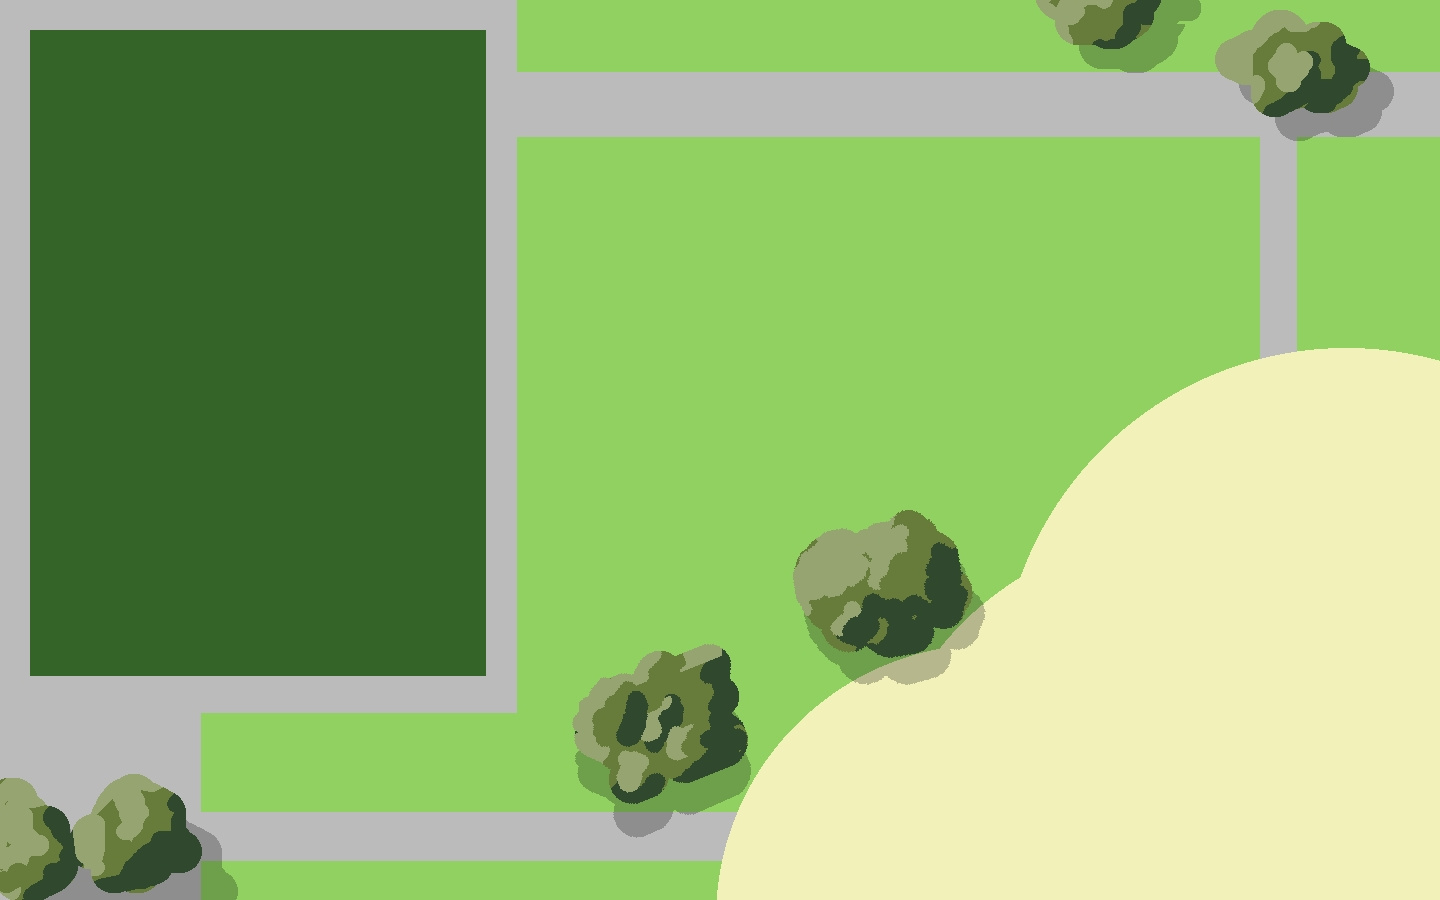
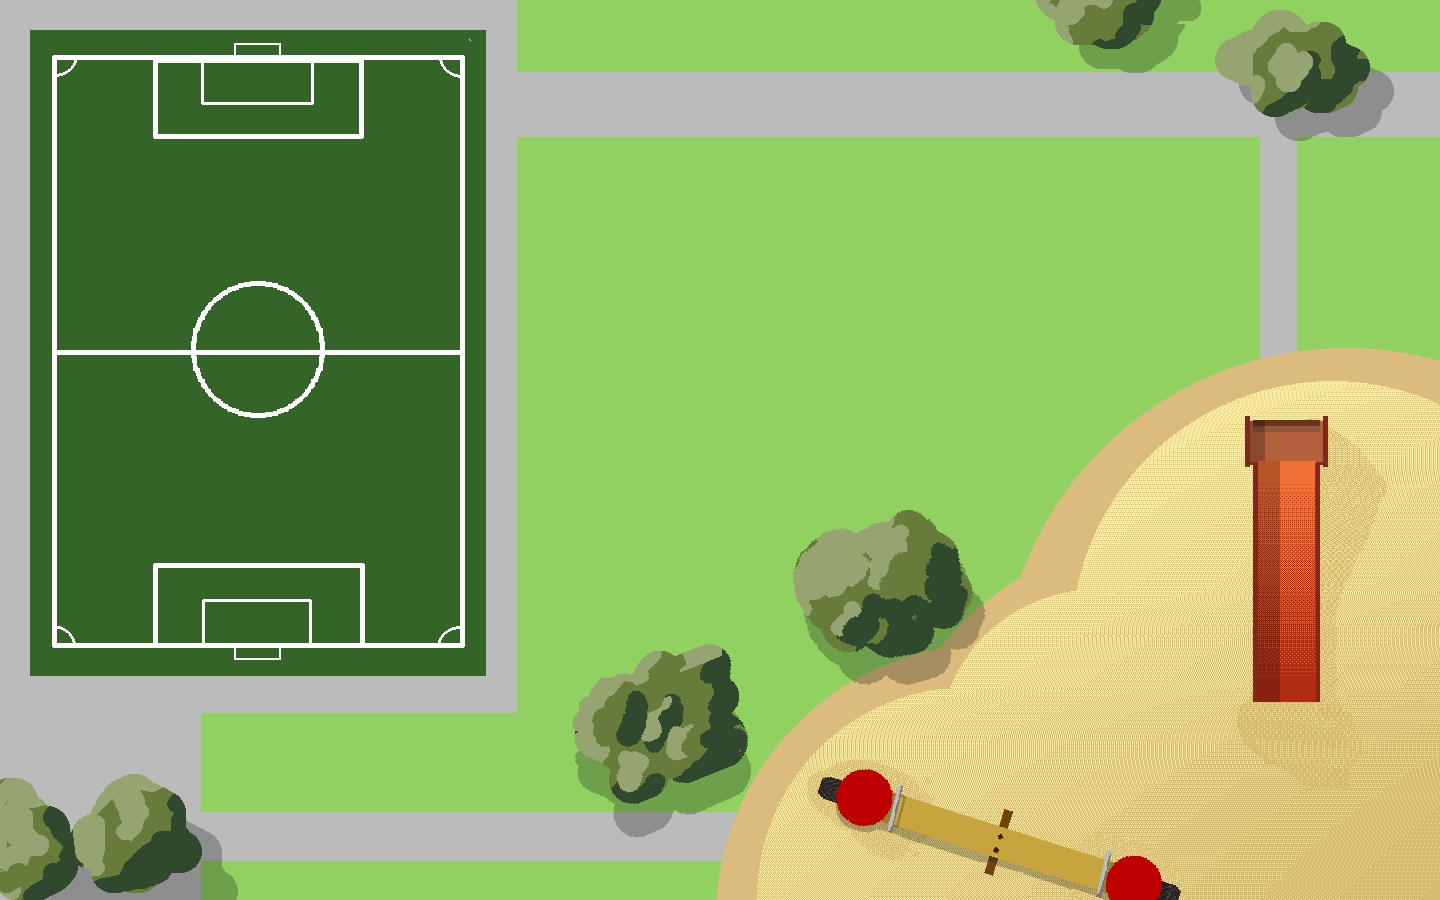
Level 3 fonts zijn toegevoegd en baller veranderingen

diff --git a/src/js/scenes/game_lvl3.js b/src/js/scenes/game_lvl3.js
@@ -17,7 +17,7 @@ import {
     Timer,
     randomInRange,
     Physics,
-    BaseAlign, TextAlign
+    BaseAlign, TextAlign, FontUnit
 } from "excalibur"
 import { Resources, ResourceLoader } from '../resources.js'
 import { player } from '../player.js'
@@ -27,6 +27,7 @@ import { Box } from "../box.js"
 import {MovableObject} from "../movableObject.js";
 import {Baller} from "../baller.js";
 import {Leaves} from "../leaves.js";
+import { Fonts } from "../fonts.js";
 
 export class Level3 extends Scene {
     game;
@@ -34,11 +35,13 @@ export class Level3 extends Scene {
     character;
     colliding = CollisionType.Fixed;
     yourScore = 0;
-    enemyScore = 4;
+    enemyScore = 0;
     leafArray = [];
     leafPoints = 0;
     timer;
     startBallin = false;
+    winScore = 5;
+    leafAmount = 15;
 
     constructor() {
 
@@ -53,7 +56,7 @@ export class Level3 extends Scene {
         this.footWall4 = new Wall(165, 975, 165, -445);
 
         this.goLevel4 = new MovableObject(1, Resources.Ending.toSprite(), CollisionType.Passive, 2600, -300)
-
+        this.gameFont = new Fonts();
 
     }
 
@@ -76,65 +79,30 @@ export class Level3 extends Scene {
 
         this.footWall3.on('collisionstart', (evt) => this.scored(evt));
         this.footWall1.on('collisionstart', (evt) => this.enemyScored(evt));
-        this.label = new Label({
+        this.playerLabel = new Label({
             text: `${this.yourScore}`,
-            pos: new Vector(200, 190),
-            font: new Font({
-                family: 'arial',
-                // style: FontStyle.Italic,
-                size: 40,
-                strokeColor: Color.Black,
-                lineWidth: 2,
-                bold: true,
-                color: Color.White,
-                baseAlign: BaseAlign.Top,
-                textAlign: TextAlign.Center
-            })
+            pos: new Vector(200, 100),
+            font: this.gameFont.font
         });
         this.enemyLabel = new Label({
             text: `${this.enemyScore}`,
-            pos: new Vector(200, 100),
-            font: new Font({
-                family: 'arial',
-                // style: FontStyle.Italic,
-                size: 40,
-                strokeColor: Color.Black,
-                lineWidth: 2,
-                bold: true,
-                color: Color.White,
-                baseAlign: BaseAlign.Top,
-                textAlign: TextAlign.Center
-            })
+            pos: new Vector(200, 190),
+            font: this.gameFont.font2
         });
         this.wonLabel = new Label({
             text: `You won noobs, follow the path to the end`,
-            pos: new Vector(-445, -400),
-            font: new Font({
-                family: 'arial',
-                // style: FontStyle.Italic,
-                size: 40,
-                strokeColor: Color.Black,
-                lineWidth: 2,
-                bold: true,
-                color: Color.White,
-                baseAlign: BaseAlign.Top,
-                textAlign: TextAlign.Center
-            })
+            pos: new Vector(-845, -300),
+            font: this.gameFont.font3
         });
         this.lostLabel = new Label({
             text: `You lost noobs, try to get to 5 points first!`,
-            pos: new Vector(-445, -400),
-            font: new Font({
-                family: 'arial',
-                // style: FontStyle.Italic,
-                size: 40,
-                strokeColor: Color.Black,
-                lineWidth: 2,
-                bold: true,
-                color: Color.White,
-                baseAlign: BaseAlign.Top,
-                textAlign: TextAlign.Center
-            })
+            pos: new Vector(-845, -300),
+            font: this.gameFont.font3
+        });
+        this.explainLabel = new Label({
+            text: `Find all leaves and start ballin!`,
+            pos: new Vector(2700, 900),
+            font: this.gameFont.font3
         });
         this.timer = new Timer({
             fcn: () => this.spawnLeaves(),
@@ -151,8 +119,8 @@ export class Level3 extends Scene {
         console.log(ctx.previousScene);
         this.player1ID = ctx.previousScene.player1ID;
         this.player2ID = ctx.previousScene.player2ID;
-        this.player = new player(this, 1, 300, -300, this.player1ID);
-        this.player2 = new player(this,2, 5, 100, this.player2ID);
+        this.player = new player(this, 1, 2500, 1000, this.player1ID);
+        this.player2 = new player(this,2, 2500, 1200, this.player2ID);
         //starts game
         this.startGame();
     }
@@ -163,7 +131,7 @@ export class Level3 extends Scene {
         this.game.currentScene.camera.zoom = 0.9;
         this.add(this.player);
         this.add(this.player2);
-
+        this.add(this.explainLabel);
         this.game.currentScene.add(this.timer);
         this.timer.start();
 
@@ -176,7 +144,7 @@ export class Level3 extends Scene {
         this.leaves = new Leaves(this);
         this.add(this.leaves);
         this.leafArray.push(this.leaves);
-        if (this.leafArray.length === 10) {
+        if (this.leafArray.length === this.leafAmount) {
             this.removeTimer(this.timer);
         }
     }
@@ -187,13 +155,14 @@ export class Level3 extends Scene {
             this.baller.actions.clearActions();
             this.baller2.actions.clearActions();
             this.yourScore += 1;
+
             this.player.pos = new Vector(-245, -200);
             this.player2.pos = new Vector(-545, -200);
             this.ball.pos = new Vector(-445, 400);
             this.baller.pos = new Vector(-245, 800);
             this.baller2.pos = new Vector(-545, 800);
 
-            if (this.yourScore === 5) {
+            if (this.yourScore === this.winScore) {
                 this.yourScore = 0;
                 this.enemyScore = 0;
                 this.baller.kill();
@@ -216,12 +185,13 @@ export class Level3 extends Scene {
             this.baller.actions.clearActions();
             this.baller2.actions.clearActions();
             this.enemyScore += 1;
+
             this.player.pos = new Vector(-245, -200);
             this.player2.pos = new Vector(-545, -200);
             this.ball.pos = new Vector(-445, 400);
             this.baller.pos = new Vector(-245, 800);
             this.baller2.pos = new Vector(-545, 800);
-            if (this.enemyScore === 5) {
+            if (this.enemyScore === this.winScore) {
                 this.yourScore = 0;
                 this.enemyScore = 0;
                 this.player.pos = new Vector(-245, -200);
@@ -253,22 +223,24 @@ export class Level3 extends Scene {
         this.add(this.footWall2);
         this.add(this.footWall3);
         this.add(this.footWall4);
-        this.add(this.label);
+        this.add(this.playerLabel);
         this.add(this.enemyLabel);
 
     }
 
     onPostDraw() {
+        this.enemyLabel.text = `${this.enemyScore}`;
+        this.playerLabel.text = `${this.yourScore}`;
+
         if (this.startBallin === false) {
-            if (this.leafPoints === 10) {
+            if (this.leafPoints === this.leafAmount) {
                 this.leafArray.splice(0, this.leafArray.length);
                 this.createPlayArea();
 
             }
         }
 
-        this.label.text = `${this.yourScore}`
-        this.enemyLabel.text = `${this.enemyScore}`
+
 
         if (this.goLevel4.isColliding) {
             this.game.startLevel4();

diff --git a/src/js/fonts.js b/src/js/fonts.js
@@ -1,0 +1,41 @@
+import {BaseAlign, Color, Font, FontUnit, ScreenElement, TextAlign} from "excalibur";
+
+export class Fonts extends ScreenElement {
+    font;
+    font2;
+    font3;
+    constructor() {
+        super();
+        this.font = new Font({
+            family: 'arial',
+            // style: FontStyle.Italic,
+            size: 40,
+            strokeColor: Color.Black,
+            lineWidth: 2,
+            bold: true,
+            color: Color.White,
+            baseAlign: BaseAlign.Top,
+            textAlign: TextAlign.Center
+        })
+        this.font2 = new Font({
+            family: 'arial',
+            // style: FontStyle.Italic,
+            size: 40,
+            strokeColor: Color.Black,
+            lineWidth: 2,
+            bold: true,
+            color: Color.White,
+            baseAlign: BaseAlign.Top,
+            textAlign: TextAlign.Center
+        })
+
+        this.font3 = new Font({
+            family: "PressStart2P-Regular",
+            size: 20,
+            color: Color.White,
+            unit: FontUnit.Px,
+            strokeColor: Color.Black,
+            lineWidth: 1,
+        })
+    }
+}

diff --git a/src/js/baller.js b/src/js/baller.js
@@ -50,16 +50,16 @@ export class Baller extends Actor {
             if (this.pos.x < this.scene.ball.pos.x) {
                 //move left and under
                 this.actions.clearActions();
-                this.actions.moveTo(new Vector(this.scene.ball.pos.x - 100, this.scene.ball.pos.y + 100), 200);
+                this.actions.moveTo(new Vector(this.scene.ball.pos.x - 100, this.scene.ball.pos.y + 100), 300);
             } else {
                 //move to right and under
                 this.actions.clearActions();
-                this.actions.moveTo(new Vector(this.scene.ball.pos.x + 100, this.scene.ball.pos.y + 100), 200);
+                this.actions.moveTo(new Vector(this.scene.ball.pos.x + 100, this.scene.ball.pos.y + 100), 300);
             }
 
         //if he is under already, just follow/push the ball
         } else {
-            this.actions.meet(this.scene.ball, 100);
+            this.actions.meet(this.scene.ball, 200);
         }
 
     }

diff --git a/src/js/leaves.js b/src/js/leaves.js
@@ -23,10 +23,10 @@ export class Leaves extends Actor {
         super({
             width: 50,
             height: 50
+
         })
 
         this.sprite = Resources.Leaf.toSprite();
-        this.scale = new Vector(2, 2);
 
         this.scene = scene;
 
@@ -36,6 +36,8 @@ export class Leaves extends Actor {
     onInitialize(engine) {
         this.graphics.use(this.sprite);
         this.rand = new Random();
+        this.rotation = Math.PI * this.rand.integer(0, 1);
+
         this.pos = new Vector(
             this.rand.integer(this.width, (Resources.realLevel3.width - this.width) * 1.8),
             this.rand.integer(this.height, (Resources.realLevel3.height - this.height) * 1.5)

diff --git a/src/js/main.js b/src/js/main.js
@@ -12,7 +12,7 @@ import { Level4 } from "./scenes/game_lvl4.js"
 export class Game extends Engine {
   constructor() {
     super({width: 1440, height: 900, displayMode: DisplayMode.FillScreen});
-    this.showDebug(true);
+    this.showDebug(false);
     this.start(ResourceLoader).then(() => this.startGame());
   }
 
